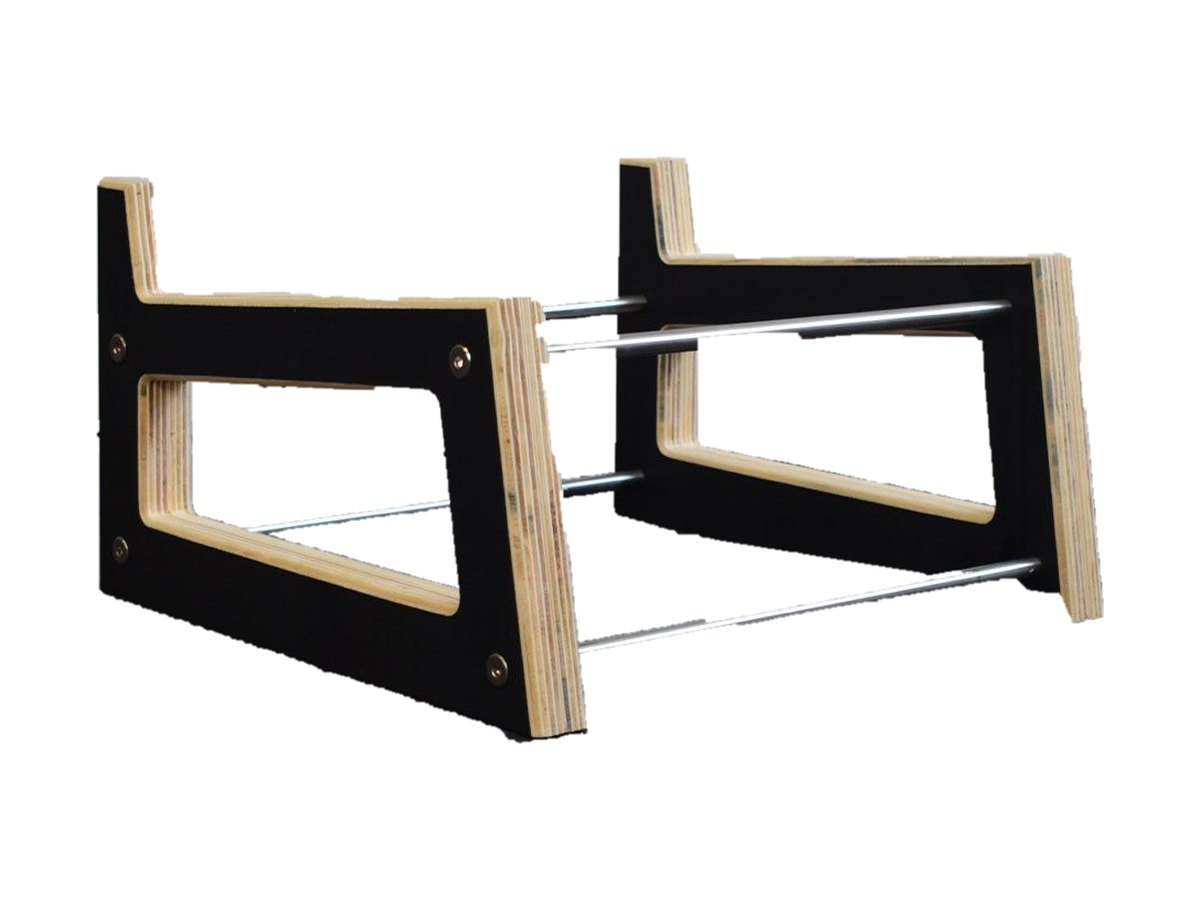
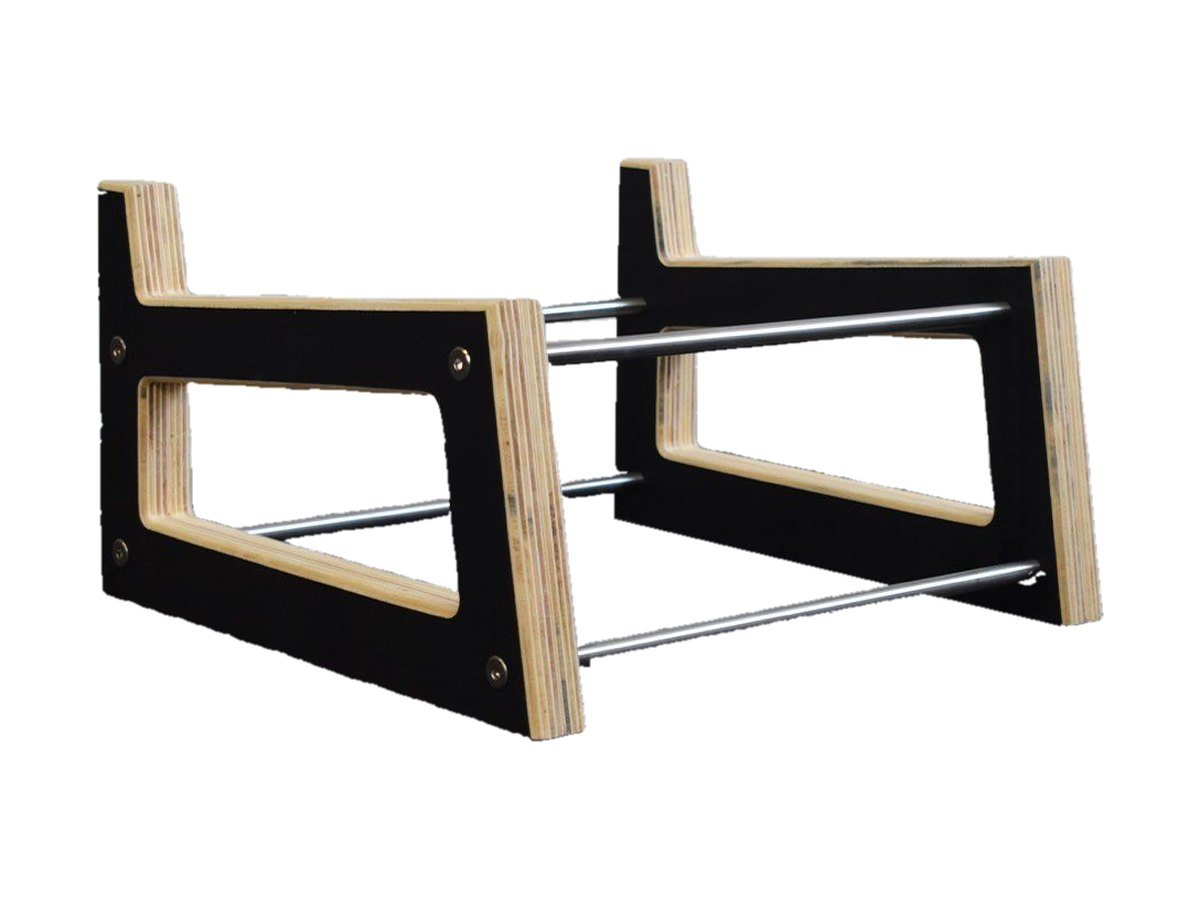
Card Ground e Supporto DAP: scontorni rifatti con bordi puliti
Claude-Session: https://claude.ai/code/session_015wvKsictn1Z6RtpeGcB9hV

diff --git a/index.html b/index.html
@@ -77,7 +77,7 @@
       <span class="more">Scopri il Tree</span></div>
     </a>
     <a class="card" href="supporto-dap.html">
-      <div class="pic"><img src="images/supporto-dap-card.jpg?v=5" alt="Supporti DAP in legno di diverse essenze sul banco del laboratorio" loading="lazy"></div>
+      <div class="pic"><img src="images/supporto-dap-card.jpg?v=6" alt="Supporti DAP in legno di diverse essenze sul banco del laboratorio" loading="lazy"></div>
       <div class="txt">
       <h3>Supporto in legno per lettori DAP</h3>
       <p>Un piccolo supporto da tavolo che tiene il lettore digitale portatile in piedi e inclinato: display e comandi sempre a portata, cavi in ordine.</p>
@@ -140,7 +140,7 @@
       <span class="more">Scopri Listelli Rado</span></div>
     </a>
     <a class="card" href="stand-ground.html">
-      <div class="pic"><img src="images/ground-card.jpg?v=5" alt="Stand basso Extrasound Ground in multistrato con fianchi neri" loading="lazy"></div>
+      <div class="pic"><img src="images/ground-card.jpg?v=6" alt="Stand basso Extrasound Ground in multistrato con fianchi neri" loading="lazy"></div>
       <div class="txt">
       <h3>Stand per diffusori Extrasound Ground</h3>
       <p>Stand bassi, alti 24 cm, per sollevare da terra i diffusori più grandi: fianchi in multistrato di pioppo e traversi in acciaio.</p>

diff --git a/stand-per-diffusori.html b/stand-per-diffusori.html
@@ -87,7 +87,7 @@
       <span class="more">Scopri Listelli Rado</span></div>
     </a>
     <a class="card" href="stand-ground.html">
-      <div class="pic"><img src="images/ground-card.jpg?v=5" alt="Stand basso Extrasound Ground in multistrato con fianchi neri" loading="lazy"></div>
+      <div class="pic"><img src="images/ground-card.jpg?v=6" alt="Stand basso Extrasound Ground in multistrato con fianchi neri" loading="lazy"></div>
       <div class="txt">
       <h3>Stand per diffusori Extrasound Ground</h3>
       <p>Stand bassi, alti 24 cm, per sollevare da terra i diffusori più grandi: fianchi in multistrato di pioppo e traversi in acciaio.</p>

diff --git a/accessori.html b/accessori.html
@@ -31,7 +31,7 @@
   </div>
   <div class="cards">
     <a class="card" href="supporto-dap.html">
-      <div class="pic"><img src="images/supporto-dap-card.jpg?v=5" alt="Supporti DAP in legno di diverse essenze sul banco del laboratorio" loading="lazy"></div>
+      <div class="pic"><img src="images/supporto-dap-card.jpg?v=6" alt="Supporti DAP in legno di diverse essenze sul banco del laboratorio" loading="lazy"></div>
       <div class="txt">
       <h3>Supporto in legno per lettori DAP</h3>
       <p>Un piccolo supporto da tavolo che tiene il lettore digitale portatile in piedi e inclinato: display e comandi sempre a portata, cavi in ordine.</p>
